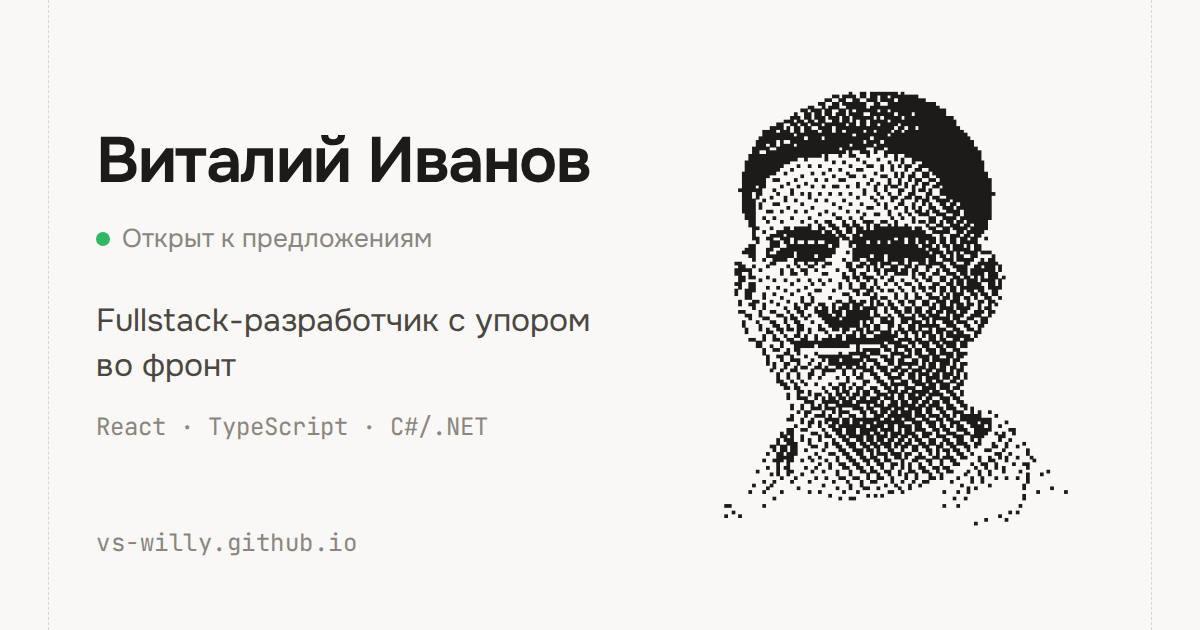
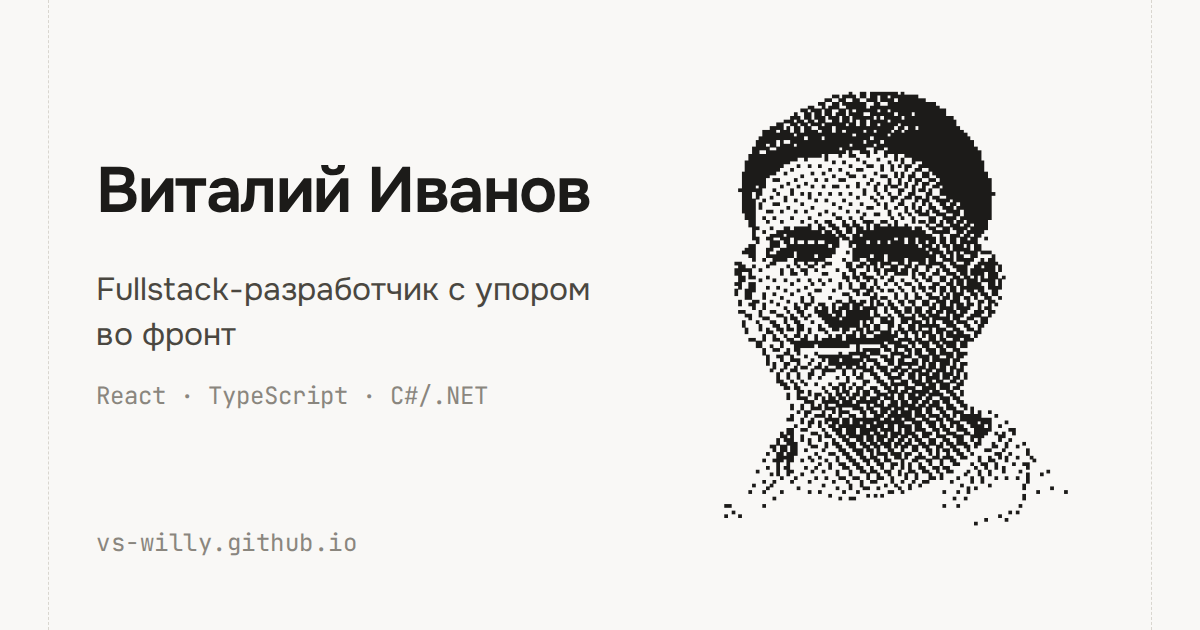
Погода в Москве под именем вместо статуса, превью без статуса
Claude-Session: https://claude.ai/code/session_016JFU3MJHehXdZSEaKxqgBT

Changed region(s): [[0.0617, 0.4222, 0.4933, 0.6937], [0.0617, 0.2111, 0.4933, 0.3921]]

diff --git a/src/ui/Weather.tsx b/src/ui/Weather.tsx
@@ -1,0 +1,100 @@
+import { useEffect, useState } from "react";
+
+// Живая погода в Москве под именем. Open-Meteo бесплатный и без ключа.
+// Ответ кэшируется на 15 минут, при ошибке остается просто «Москва».
+
+const URL =
+  "https://api.open-meteo.com/v1/forecast?latitude=55.7558&longitude=37.6173&current=temperature_2m,weather_code,is_day&timezone=Europe%2FMoscow";
+const KEY = "weather-msk";
+const TTL = 15 * 60 * 1000;
+
+type Kind = "sun" | "moon" | "partly" | "cloud" | "fog" | "drizzle" | "rain" | "snow" | "storm";
+type Now = { t: number; code: number; day: boolean };
+
+// коды погоды WMO в слова и иконку
+function describe(code: number, day: boolean): { text: string; kind: Kind } {
+  if (code === 0) return { text: "ясно", kind: day ? "sun" : "moon" };
+  if (code === 1) return { text: "почти ясно", kind: day ? "sun" : "moon" };
+  if (code === 2) return { text: "переменная облачность", kind: day ? "partly" : "cloud" };
+  if (code === 3) return { text: "пасмурно", kind: "cloud" };
+  if (code === 45 || code === 48) return { text: "туман", kind: "fog" };
+  if (code >= 51 && code <= 57) return { text: "морось", kind: "drizzle" };
+  if (code === 61) return { text: "небольшой дождь", kind: "rain" };
+  if (code >= 62 && code <= 67) return { text: code >= 65 ? "сильный дождь" : "дождь", kind: "rain" };
+  if (code >= 71 && code <= 77) return { text: code === 71 ? "небольшой снег" : "снег", kind: "snow" };
+  if (code >= 80 && code <= 82) return { text: "ливень", kind: "rain" };
+  if (code === 85 || code === 86) return { text: "снегопад", kind: "snow" };
+  if (code >= 95) return { text: "гроза", kind: "storm" };
+  return { text: "", kind: "cloud" };
+}
+
+// иконки 9x9 из точек, в стиле портрета
+const ICONS: Record<Kind, string[]> = {
+  sun: ["....1....", ".1.....1.", "...111...", "..11111..", "1.11111.1", "..11111..", "...111...", ".1.....1.", "....1...."],
+  moon: ["...111...", "..11.....", ".11......", ".11......", ".11......", ".11......", "..11...1.", "...11111.", "........."],
+  partly: [".1..1....", "...111...", "1.1111...", "...1111..", "..111111.", ".11111111", ".11111111", "..111111.", "........."],
+  cloud: [".........", ".........", "...111...", "..11111..", ".1111111.", "111111111", "111111111", ".1111111.", "........."],
+  fog: [".........", ".1111111.", ".........", "111111111", ".........", ".1111111.", ".........", "1111111..", "........."],
+  drizzle: ["...111...", "..11111..", ".1111111.", "111111111", ".1111111.", ".........", "..1...1..", ".........", "...1...1."],
+  rain: ["...111...", "..11111..", ".1111111.", "111111111", ".1111111.", ".........", ".1..1..1.", "1..1..1..", "........."],
+  snow: ["...111...", "..11111..", ".1111111.", "111111111", ".1111111.", ".........", ".1.1.1.1.", ".........", "1.1.1.1.."],
+  storm: ["...111...", "..11111..", ".1111111.", "111111111", ".1111111.", ".....1...", "....1....", "...1111..", ".....1..."],
+};
+
+function Icon({ kind }: { kind: Kind }) {
+  const rows = ICONS[kind];
+  return (
+    <svg viewBox="0 0 9 9" className="h-4 w-4 shrink-0 text-ink-2" aria-hidden>
+      {rows.flatMap((row, y) =>
+        [...row].map((c, x) => (c === "1" ? <circle key={`${x}-${y}`} cx={x + 0.5} cy={y + 0.5} r={0.45} fill="currentColor" /> : null)),
+      )}
+    </svg>
+  );
+}
+
+function readCache(): Now | null {
+  try {
+    const raw = sessionStorage.getItem(KEY);
+    if (!raw) return null;
+    const v = JSON.parse(raw) as Now & { at: number };
+    return Date.now() - v.at < TTL ? v : null;
+  } catch {
+    return null;
+  }
+}
+
+export function Weather() {
+  const [now, setNow] = useState<Now | null>(() => readCache());
+
+  useEffect(() => {
+    if (now) return;
+    const ctrl = new AbortController();
+    fetch(URL, { signal: ctrl.signal })
+      .then((r) => (r.ok ? r.json() : Promise.reject()))
+      .then((d) => {
+        const v: Now = { t: d.current.temperature_2m, code: d.current.weather_code, day: d.current.is_day === 1 };
+        setNow(v);
+        try {
+          sessionStorage.setItem(KEY, JSON.stringify({ ...v, at: Date.now() }));
+        } catch {
+          /* хранилище может быть недоступно, это не страшно */
+        }
+      })
+      .catch(() => {});
+    return () => ctrl.abort();
+  }, [now]);
+
+  if (!now) return <span>Москва</span>;
+  const { text, kind } = describe(now.code, now.day);
+  const t = Math.round(now.t);
+  const temp = `${t > 0 ? "+" : t < 0 ? "-" : ""}${Math.abs(t)}°`;
+  return (
+    <span className="inline-flex items-center gap-2" title="Погода сейчас, Open-Meteo">
+      <Icon kind={kind} />
+      <span>
+        В Москве {temp}
+        {text && `, ${text}`}
+      </span>
+    </span>
+  );
+}

diff --git a/src/pages/Home.tsx b/src/pages/Home.tsx
@@ -12,6 +12,7 @@ import { PortraitFx } from "../ui/PortraitFx";
 import { ProjectRow } from "../ui/ProjectRow";
 import { SectionLabel } from "../ui/Section";
 import { Shelf } from "../ui/Shelf";
+import { Weather } from "../ui/Weather";
 import { nb } from "../typo";
 
 // Сменяющийся чип: ширина подстраивается под слово, у каждого слова свой цвет
@@ -92,12 +93,8 @@ export function Home() {
       <header className="grid gap-8 sm:grid-cols-[1fr_230px] sm:gap-8">
         <div>
           <h1 className="text-[17px] font-semibold">Виталий Иванов</h1>
-          <div className="mt-1.5 inline-flex items-center gap-2 text-[13px] text-ink-3">
-            <span className="relative flex h-2 w-2" aria-hidden>
-              <span className="absolute inline-flex h-full w-full rounded-full bg-[oklch(0.72_0.17_150)] opacity-60 motion-safe:animate-ping" />
-              <span className="relative inline-flex h-2 w-2 rounded-full bg-[oklch(0.68_0.17_150)]" />
-            </span>
-            Открыт к предложениям
+          <div className="mt-1.5 h-5 text-[13px] text-ink-3">
+            <Weather />
           </div>
           <div className="mt-5 space-y-4 leading-[1.65] text-ink-2">
             <p>
